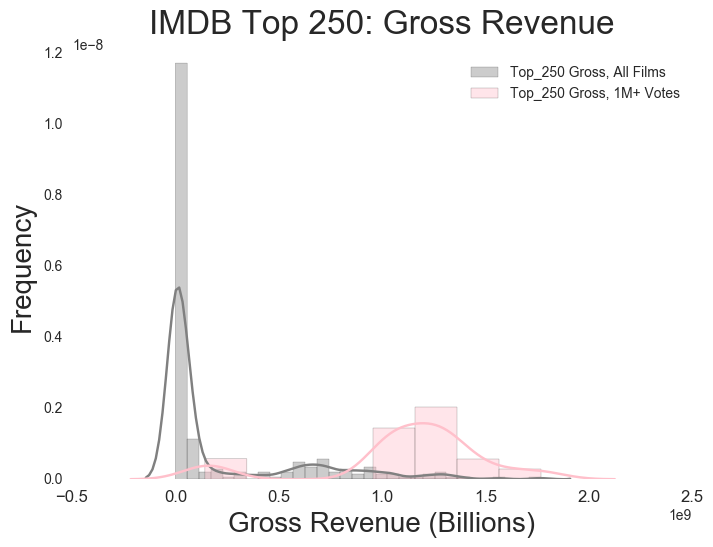
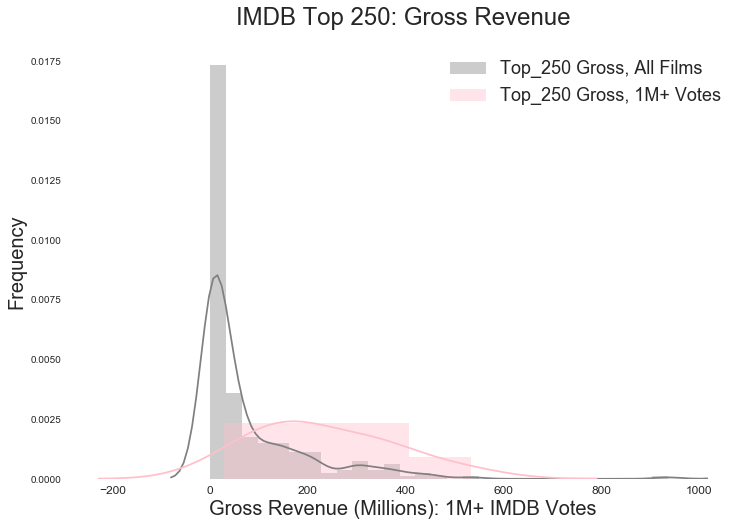
second draft based on adjusted gross

diff --git a/_posts/2017-03-17-IMDB.md b/_posts/2017-03-17-IMDB.md
@@ -9,39 +9,84 @@ BACKGROUND
 
 The popular movie site IMDB provides basic information about movies, including descriptions, studio information, revenues, genres, directors, actors, ratings and more.
 
+IMDB published user ratings for each film. The ratings are ranked on a 0-10 scale, and the ratings can change over time as people continue to vote, and/or remove their votes.
+
 IMDB also maintains a list of what it considers the Top 250 movies. IMDB places films on this list pursuant to a formula that produces a weighted average based on the number of votes and ratings for films.
+
+
 
 PATTERNS
 
 There are patterns among the films on the IMDB Top 250.
 
+Directors
+
 Some directors are better represented than others. As one would expect, the most represented directors are among the greatest, and include Martin Scorsese, Stanley Kubrick, and Alfred Hitchcock.
 
 ![Directorsmap](../images/Project6IMDB/directors.png)
+
+
+Oddly, John Ford has only one film on the Top 250: "The Grapes of Wrath". Among film historians, Ford is best known for "Stagecoach", "The Searchers" and his so-called cavalry trilogy.  What makes Ford's single entry so odd, is that Ford is perhaps the single most influential director.
+
+![Fordmap](../images/Project6IMDB/searchers.jpg)
+
+In "Stagecoach", Ford gave birth to the classic Hollywood film narrative.  Ford also influenced many of the directors on the Top 250, including Scorsese and Spielberg, both of whom have seven films on Top 250. Akira Kurosawa named Ford as his greatest influence (five films on the Top_ 250), and Kurosawa in turn provided the cinematic inspiration for the Star Wars series. There are four Star Wars films on the Top 250.
+
+Ford's therefore absence tells us a great deal about the Top 250. While "The Searchers" is perhaps one of the most influential films in history, it is not a favorite among IMDB visitors, who rate it 8.0. The movie has only 67,000 votes, and there are only 30 films on the Top 250 with fewer than 68,000 votes. Of those 30 films, the mean is 8.3; not a single one rates 8.0.
+
+![Screensmap](../images/Project6IMDB/screen.jpg)
+
+"The Searchers" had Scorsese's seal of approval, but not enough love form IMDB visitors.
+
+Length
 
 Highly rated films on the IMDB Top 250 tend to be longer, and the highest rated films (9.0+) are all crime dramas.
 
 ![Lengthmap](../images/Project6IMDB/Length.png)
 
-The highest IMBD rated films also tend to be 'R' and 'PG-13' rated. 'R' and PG-13 films are among the highest grossing films.
+The highest IMBD rated films also tend to be 'R' and 'PG-13' rated.
 
 ![Lengthmap](../images/Project6IMDB/RatingRating.png)
 
-IMDB visitor behavior reveal more patterns. IMDB allows visitors to vote for films. Those on the Top 250 list with over 1 million IMDB votes are more likely to gross over $1 billion. That IMDB visitors vote more often for films that draw heavily at the box office.
+Gross Revenues
 
-![Lengthmap](../images/Project6IMDB/Gross.png)
+Analyzing IMDB revenues is difficult because the Top 250 spans 95 years, making inflation a legitimate concern. Furthermore, some films drew revenues in francs, rupees, lira, and/or dollars. Adjusting the data for historical currency valuations, and for inflation reveals remarkable patterns in the the data.
+
+![Lengthmap](../images/Project6IMDB/gross.png)
+
+While "R" rated films account for 41 percent of all films on the Top 250, their adjusted mean gross revenue is half that of "PG" rated films, and a third of "G" rated films.
+
+The earning power of "PG" is best exemplified in the above graph in the period between 1975 through 1985. I call this the "Lucas-Spielberg Superhighway" as it this swathe of purple bubbles contains the first "Star Wars" trilogy, "Raiders of the Lost Ark" and "Jaws".
+
+We also see the enduring earning power of "G" rated films in the above visual. "Gone with the Wind", and it is one of the highest earners on the list, notwithstanding its 1939 production.
+
+In full disclosure, it was necessary to update the ratings for many of the films using IMDBs suggested ratings, TV ratings and overseas ratings.
+
+Visitor votes
+
+IMDB allows visitors to vote for films. These votes not only influence the rating, but also whether a film makes the Top 250.
+
+Newer films are more likely to have over one million votes, and those films rated over 8.9 tend gross more than than the average Top 250 film.
+
+![Votesmap](../images/Project6IMDB/votes.png)
+
 
 MODELING
 
 Notwithstanding the abundance of patterns in the Top 250 list, it's difficult to predict IMDB ratings for these films, at least using classification algorithms.
 
-Gradient boosting can produce a model with 23% probability. Not great.
-Decision trees and random forest models do not perform much better. Even using feature selection techniques, it's difficult to break the 23% probability threshold.
+Regression
 
-The good news is that a gradient boosting regressor can produce a model with a .03 mean squared error on a test set, making regression techniques a preferable means of predicting IMDB movie ratings.
+A regression model using gradient boosting produced a decent model with an MSE of .03 and an R squared of .54. Decent numbers.
 
-There is probably a better approach to predicting movie ratings on the Top 250. The features in this analysis uncovered as most predictive are not the features used exclusively by IMDB for placing films on the Top 250 list in the first place.
+As demonstrated by the plot below, the best features for a gradient boosting regressor are: 1. visitor votes ("new_votes"); adjusted gross income ("adj_gross"); and the year of release ('new_years').
+
+![Votesmap](../images/Project6IMDB/regressors.png)
+
+The strength of these features are not surprising. Visitor votes are what determines the ratings, and the adjusted gross is stronger in the 1970s & 1980s. The length of a film  is at first surprising, but remember that length is longer for highly rated films.
+
+Classification
+
+A gradient boost classification model with K-Best feature selection can produce a model with 25 percent accuracy. A random forest model produce a model with 27 percent accuracy. Neither are  great. Decision trees and random forest models do not perform much better.
 
 K-Best feature selection algorithms tell us that the best variables are length, visitor votes, gross revenue, two MPAA-ratings and select genres (Sci-Fi, Fantasy, Western).  IMDB on the other hand, places movies on the IMDB list using several factors. Genre is not one of them.
-
-Perhaps recreating a list that takes the factors IMDB uses to create the Top 250 will create a better predictive model.
